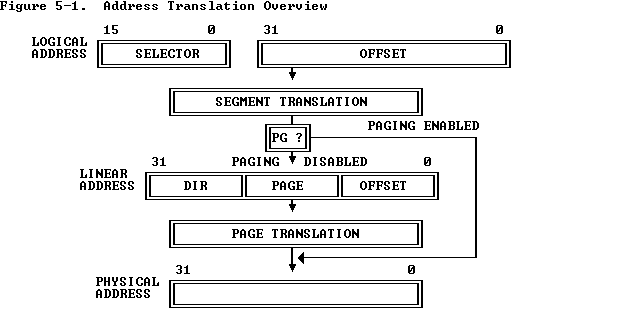
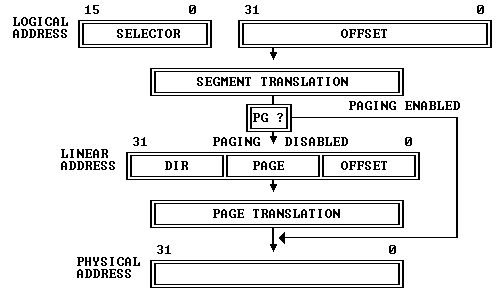
figures

Changed region(s): [[0.03, 0.0, 0.99, 0.9664], [0.0, 0.0, 0.12, 0.0302]]

diff --git a/content/posts/2026/80386_memory_pipeline/index.md b/content/posts/2026/80386_memory_pipeline/index.md
@@ -24,7 +24,10 @@ Intel's *80386 Programmer's Reference Manual* describes 386 address translation 
 
 The manual illustrates it like this:
 
-![alt text](address_translation.png)
+<figure>
+<img src="address_translation.png" alt="Address translation overview" class="no-border">
+<figcaption style="text-align: center;">Address Translation Overview (figure 5-1, <i>80386 Programmer's Reference Manual</i>)</figcaption>
+</figure>
 
 Before looking at the hardware, it helps to start from the microcode. Here is the microcode for an ALU instruction that reads memory, modifies it, and writes it back, i.e. an instruction like `ADD [BX+4], 8`:
 
@@ -56,7 +59,10 @@ Intel's answer was to build a dedicated address path that usually adds only abou
 
 Here is the familiar way in which segmentation transforms a logical address into a linear address:
 
-![alt text](segment.png)
+<figure>
+<img src="segment.png" alt="Segment translation" class="no-border">
+<figcaption style="text-align: center;">Segment Translation (figure 5-2, <i>80386 Programmer's Reference Manual</i>)</figcaption>
+</figure>
 
 Segmentation is mandatory and active in both protected and real mode. The above illustration is easy to understand in protected mode: the segment base address is looked up from the in-memory GDT/LDT tables. What may not be obvious from the diagram is that the same segment calculation is also active in real mode, even when the linear address seemingly does not go through lookup tables. We'll talk about that below.
 
@@ -79,6 +85,7 @@ Its microcode in execution order is:
 ; ADD m,i
 039  EFLAGS -> FLAGSB                 FLGSBA          RD   9
 03A                                               DLY
+03B  OPR_R  -> TMPB    WRITE_RESULT   JMP         UNL
 ...
 ```
 
@@ -96,7 +103,11 @@ The first optimization is simply to avoid repeating descriptor lookup on every a
 
 When a selector is loaded into a segment register, the processor also loads the descriptor's base, limit, and attributes into the register's invisible part. The hidden state (called **descriptor caches**) exists so the processor does **not** need to consult the descriptor tables on every memory reference. On the die photo, it actually occupies considerable space.
 
-(Add a die shot that highlights the descriptor cache)
+<figure>
+<img src="80386_labeled_descriptor_cache.jpg" alt="80386 die photo with Descriptor Cache Unit highlighted" style="max-width: 500px;">
+<figcaption style="text-align: center;">The 80386 die. The Descriptor Cache is highlighted in red.<br>
+<small>Base image: <a href="https://commons.wikimedia.org/wiki/File:Intel_80386_DX_die.JPG">Intel 80386 DX die</a>, Wikimedia Commons</small></figcaption>
+</figure>
 
 This is a crucial design choice. Without it, segmentation would either require extra memory accesses on every reference or a much more elaborate descriptor cache hierarchy. With it, ordinary accesses see segmentation as local state, not table-walking.
 
@@ -225,7 +236,7 @@ Seen as a whole, the memory pipeline looks something like this:
 5. the bus interface schedules the access while prefetch competes in the background
 6. the result returns in time for the microcode's `DLY` synchronization point
 
-(Let's draw a SVG diagram illustrating cycle-by-cycle what happens in the pipeline for a RD memory access. The left side is the micro-instructions for 039 and 03A. The right side is the cycles/steps for the memory pipeline operations)
+![Cycle-by-cycle view of an RD memory read through the 80386 memory pipeline](rd_pipeline.svg)
 
 ## Mapping the memory pipeline to an FPGA 386
 
